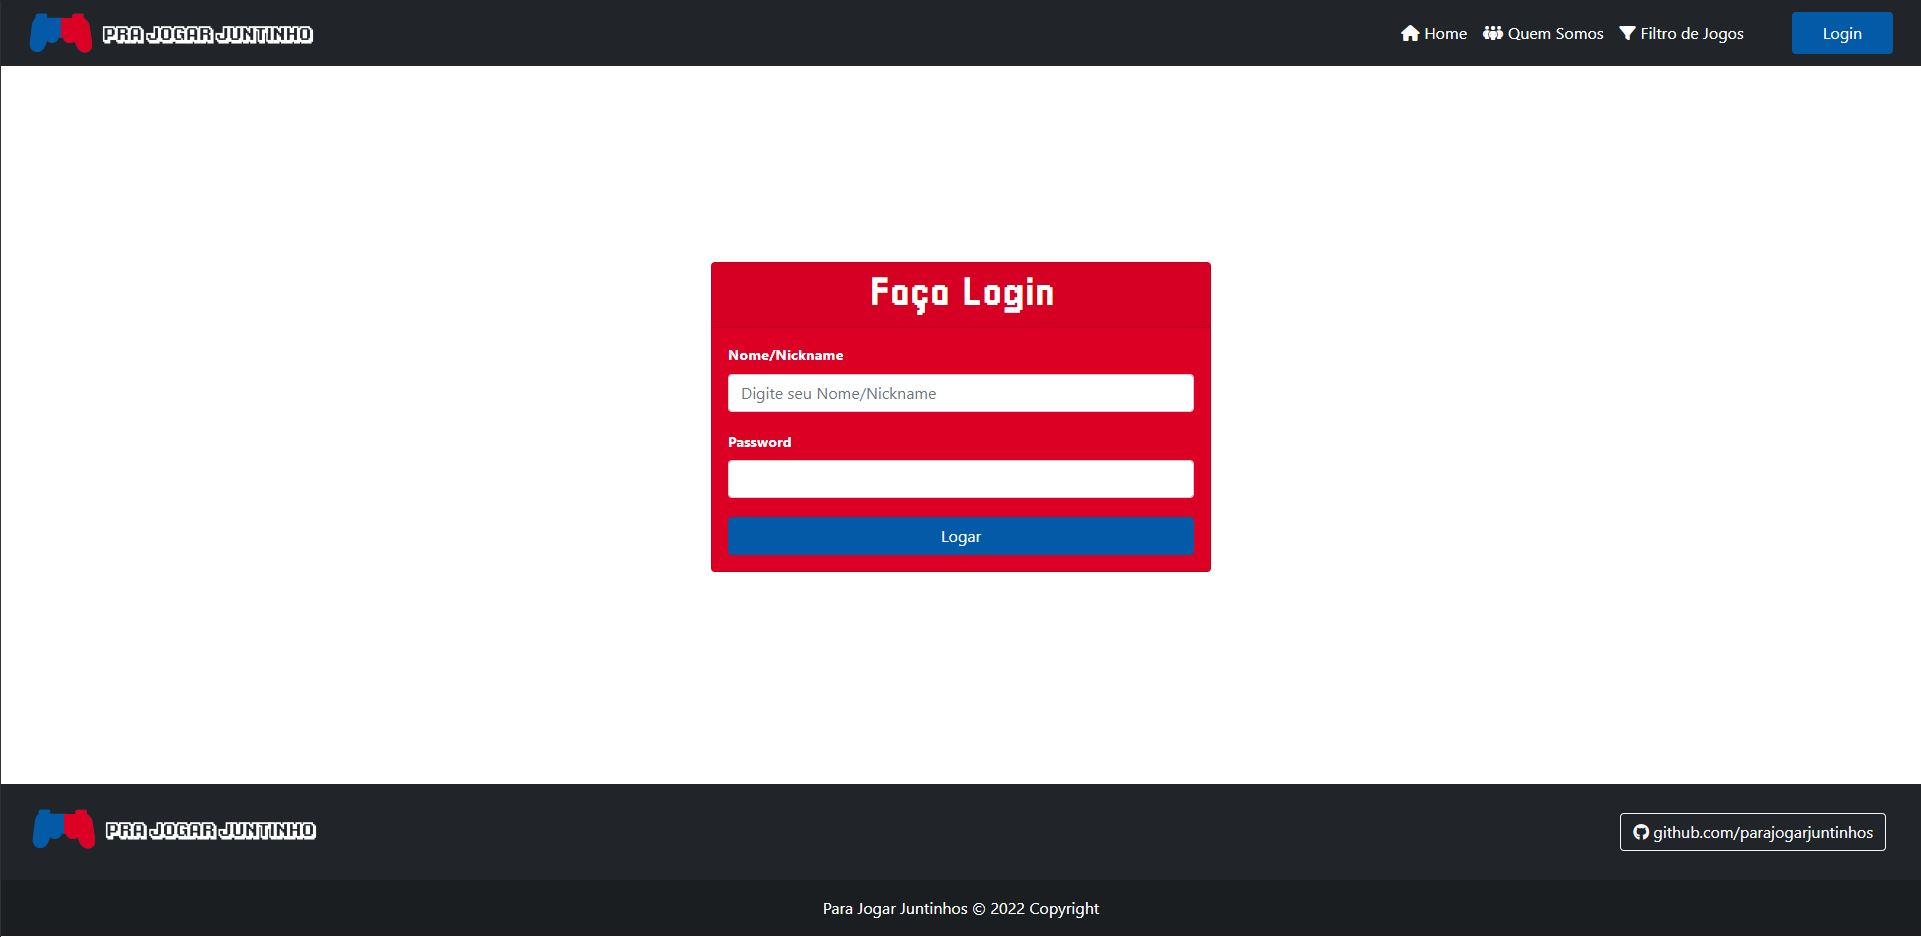
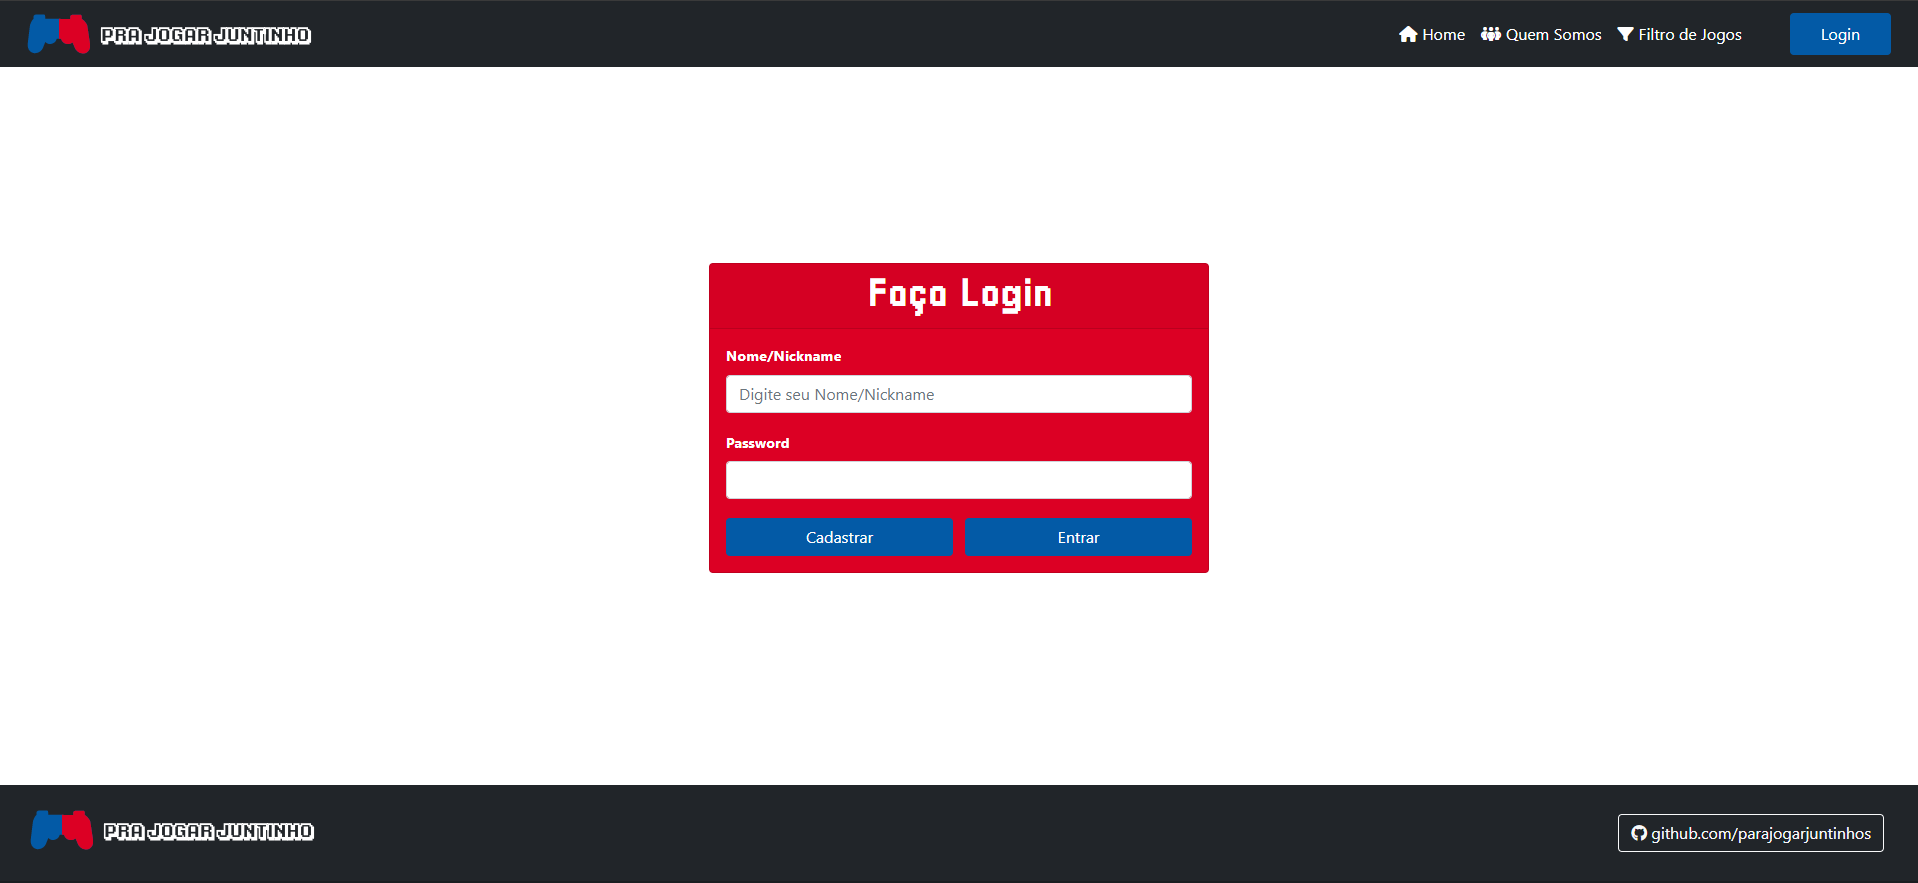
ajustando documentação

diff --git a/docs/development.md b/docs/development.md
@@ -12,23 +12,15 @@ Nesta seção estão descritos os artefatos e estruturas de dados criados para a
 
 Para atender aos requisitos RF-001, RF-003 e RF-004 foi desenvolvido a página de Filtro de Jogos.
 
-Ao acessar a página de filtro de perfil será exibido um botão do tipo `button` onde o usuário terá acesso a uma legenda dos ícones que ele encontrará nos cards dos jogos.
+Será exibido um botão que recolhe e expande onde o usuário terá acesso a uma legenda dos ícones que ele encontrará nos cards dos jogos que facilitará quais plataformas o jogo se encontra.
 
 ![legenda](img/entrega03/legenda.JPG)
 
-Abaixo da legenda do lado esquerdo se encontra o Filtro de Jogos, onde o usuário podera colocar informações como nome do jogo, número de jogadores desejado, gênero e plataforma desejada, podendo assim fazer pesquisas nos jogos disponiveis no site.
+Abaixo da legenda do lado esquerdo se encontra o Filtro de Jogos, onde o usuário podera colocar informações como nome do jogo, número de jogadores desejado, gênero e plataforma desejada, podendo assim fazer pesquisas nos jogos disponíveis no site.
 
 ![filtro](img/entrega03/filtro.JPG)
 
-O filtro é do tipo `x` que apresenta campos do tipo `y` para pesquisa de Nome do Jogo e Número de Jogadores, além de botões do tipo `z` para filtrar por gênero e plataforma.
-
-Feito o processo de filtro o usuário deverá clicar no botão buscar to tipo `v` que atualizará a página com os resultados da pesquisa feita pelo usuário.
-
-O resultado da pesquisa será apresentado ao lado do Filtro de Jogos após o usuário clicar em buscar.
-
-> adicionar a foto do resultado da busca (ainda não ta funcionando)
-
-Nele aparecerão os cards dos jogos organizados `de tal maneira`.
+Feito o processo de filtro o usuário deverá clicar no botão buscar que atualizará a página com os resultados da pesquisa feita pelo usuário. O resultado da pesquisa será apresentado ao lado do Filtro de Jogos
 
 <br/>
 
@@ -69,13 +61,13 @@ Os comentários foram feitos da `seguinte forma`
 
 - RF-006 - Permitir login do usuário
 
-Para atender ao requisito RF-006 foi desenvolvido a página de login.
+Para atender ao requisito RF-006 foi desenvolvido a página de Login.
 
-Ao clicar em fazer login, disponível no menu da página, aparecerá os compos de login para o usuário.
+Ao clicar em fazer login, disponível no menu da página inicial, irá carregar a tela de login para o usuário.
 
-![login](img/entrega03/login.JPG))
+![login](img/entrega03/login.JPG)
 
-Será exibido dois campos, Nome/Nickname e Password respectivamente para o usuário entrar com um cadastro já realizado no site, se não possuir cadastro haverá um botão que levará até a tela de Cadastro
+Será exibido dois campos, Nome/Nickname e Password respectivamente para o usuário entrar com um cadastro já realizado no site, se não possuir cadastro haverá um botão que levará até a tela de Cadastro.
 
 <br/>
 
@@ -85,13 +77,13 @@ Será exibido dois campos, Nome/Nickname e Password respectivamente para o usuá
 
 - RF-005 - Permitir cadastro de usuário
 
-Para atender ao requisito RF-005 foi desenvolvido a página de cadastro.
+Para atender ao requisito RF-005 foi desenvolvido a página de Cadastro.
 
-Será disponibilizado ao usuário um formulário onde ele poderá cadastras informações como Name/Nickname e senha para criar o usuário e fazer login.
+Será disponibilizado ao usuário um formulário onde ele poderá cadastrar suas informações como Nome/Nickname e senha para criar um usuário no site e fazer login futuramente.
 
 ![cadastro](img/entrega03/cadastro.JPG)
 
-O formulario é do tipo `x` com campos do tipo `y`.
+Ao final depois de inserir seus dados, para confirmar cadastro no Pra Jogar Juntinho basta clicar no botão "Cadastrar". Pronto você será redirecionado para a tela inicial e agora você consegue comentar e favoritar seus jogos preferidos para poder jogar mais tarde com seus amigos.
 
 <br/>
 
@@ -104,9 +96,7 @@ O formulario é do tipo `x` com campos do tipo `y`.
 
 Para atender aos requisitos RF-007 e RF-009 foi desenvolvido dois botões disponiveis no card do jogo.
 
-> adicionar imagens dos botões.
 
-Os botões são do tipo `x`.
 
 <br/>
 
